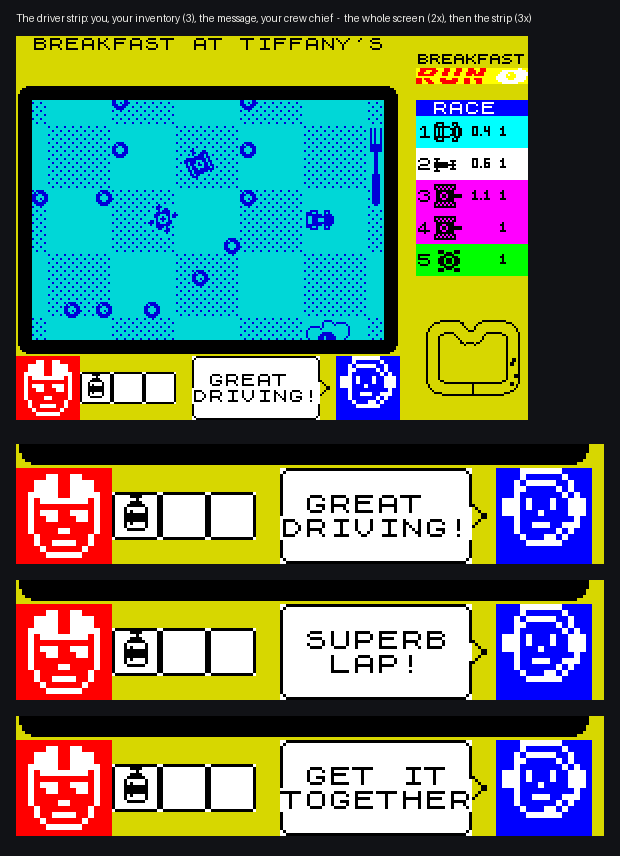
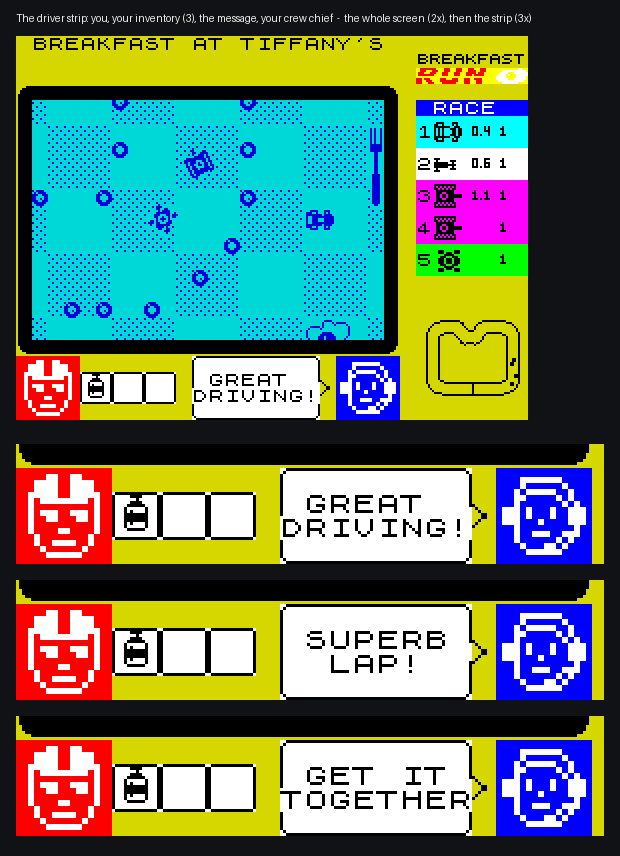
Mock-up: faces centred in their squares in the driver strip
Claude-Session: https://claude.ai/code/session_01476U897R8mVFSH3iYyydqW

diff --git a/tools/make_strip_mockups.py b/tools/make_strip_mockups.py
@@ -42,9 +42,15 @@ def text(bits, s, col, row):
         for j in range(8):
             bits[row * 8 + j, (col + i) * 8:(col + i + 1) * 8] = np.unpackbits(np.array([g[j]], np.uint8))
 def face2x(bits, art, x0):
+    # twice size, centred in its 32 x 32 square by its ink (Grant: centre the crew chief)
+    ys = [y for y in range(16) if any(v in 'X#' for v in art[y])]
+    xs = [x for x in range(16) if any(art[y][x] in 'X#' for y in range(16))]
+    dy = (32 - 2 * (ys[-1] - ys[0] + 1)) // 2 - 2 * ys[0]
+    dx = (32 - 2 * (xs[-1] - xs[0] + 1)) // 2 - 2 * xs[0]
     for y in range(16):
         for x in range(16):
-            if art[y][x] in 'X#': bits[160 + 2 * y:162 + 2 * y, x0 + 2 * x:x0 + 2 * x + 2] = 1
+            if art[y][x] in 'X#':
+                bits[160 + dy + 2 * y:162 + dy + 2 * y, x0 + dx + 2 * x:x0 + dx + 2 * x + 2] = 1
 def strip(msg):
     bits, attr = load()
     bits[160:192, 0:192] = 0                       # the old LAP / TIME / BEST lines

diff --git a/PROJECT-LOG.md b/PROJECT-LOG.md
@@ -665,3 +665,5 @@ Authoritative log for this workstream (house rule 5.2). Newest at the bottom. Ti
   Grant: 'exactly'. docs/design/radio_wave.gif, radio_wave_still.png.
 - Grant shortened the NOS by one row (editor screenshot, read cell by cell): tools/face_art.txt;
   the mock-ups draw it from there.
+- Grant: centre the crew chief in his blue square. Faces in the strip are now centred by their
+  ink in their 32 x 32 squares (the crew chief 3 px lower; yours unchanged within a pixel).
